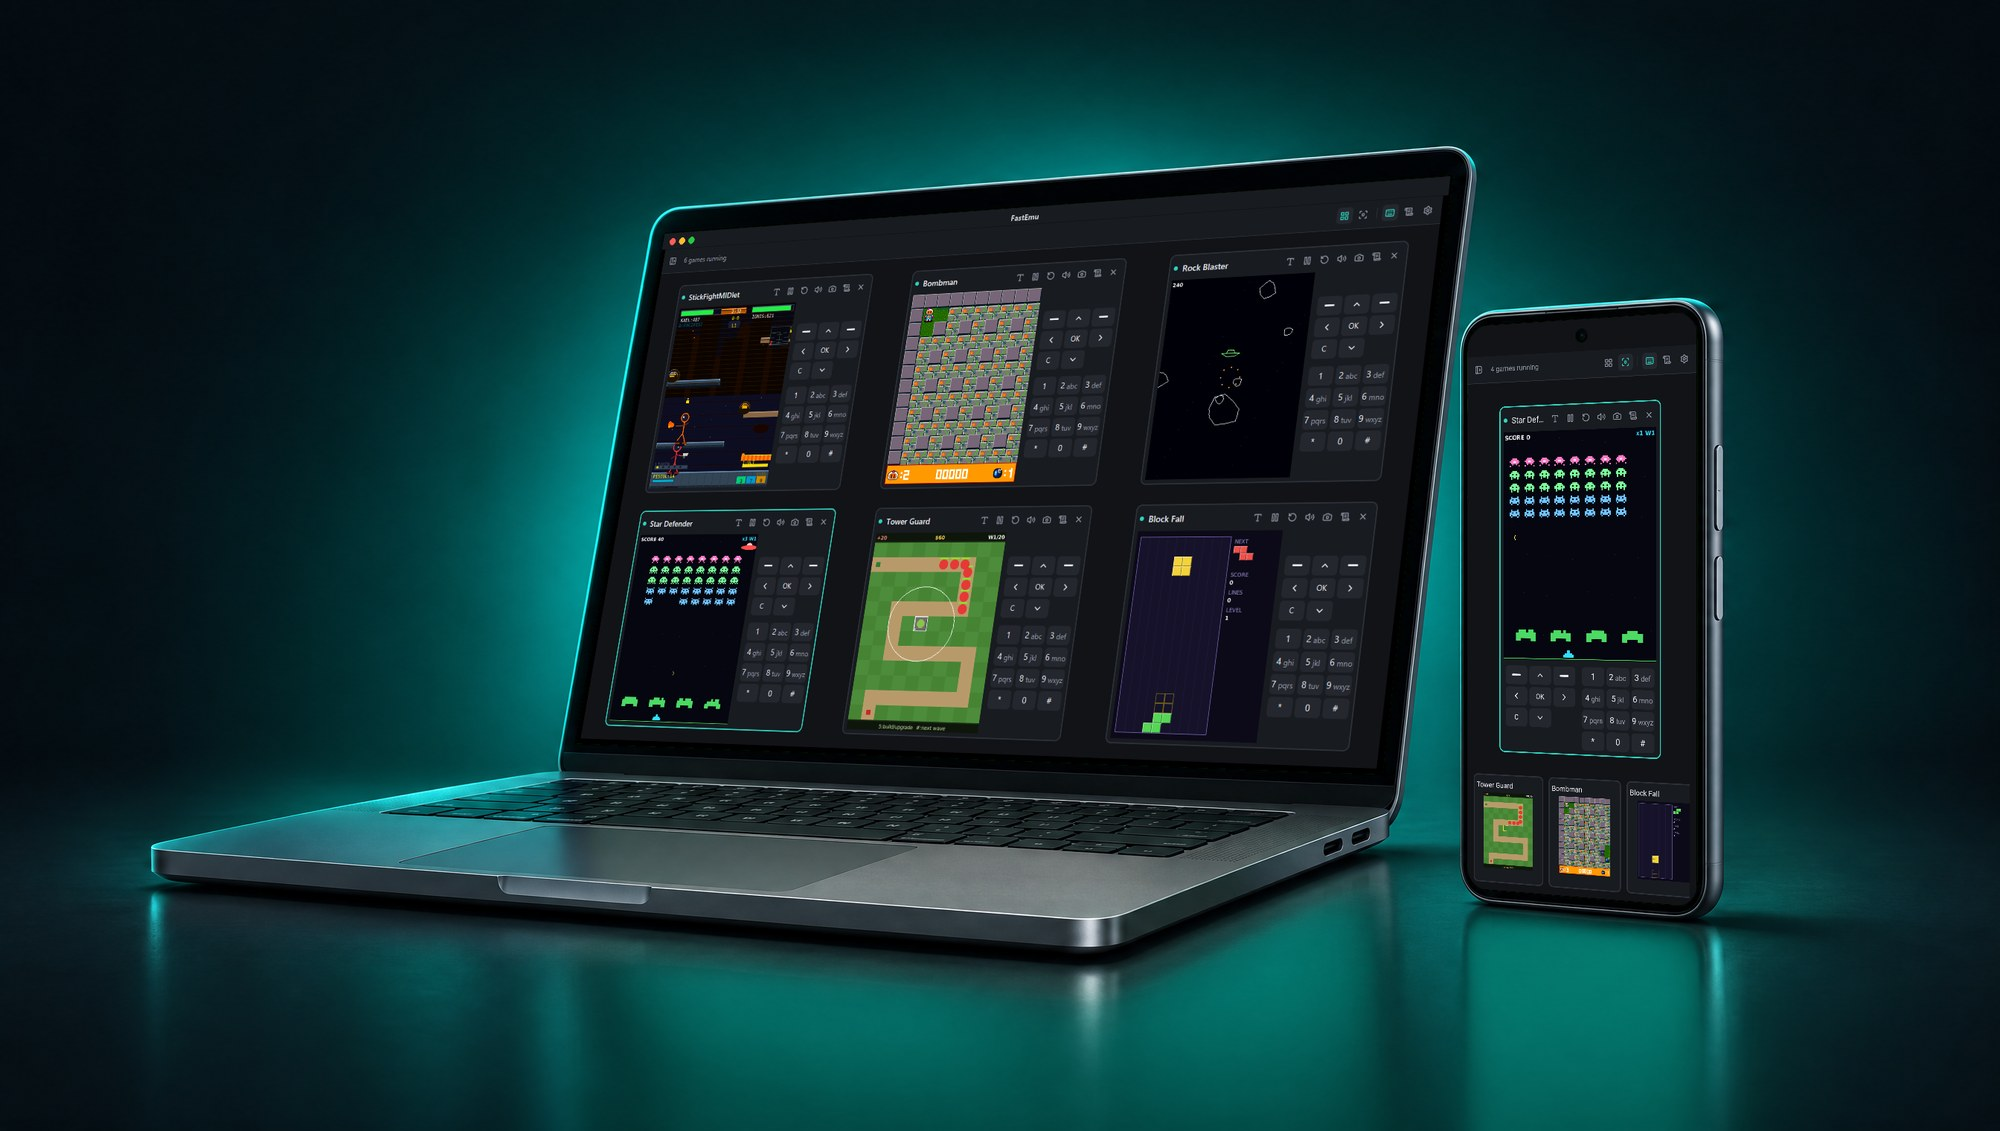
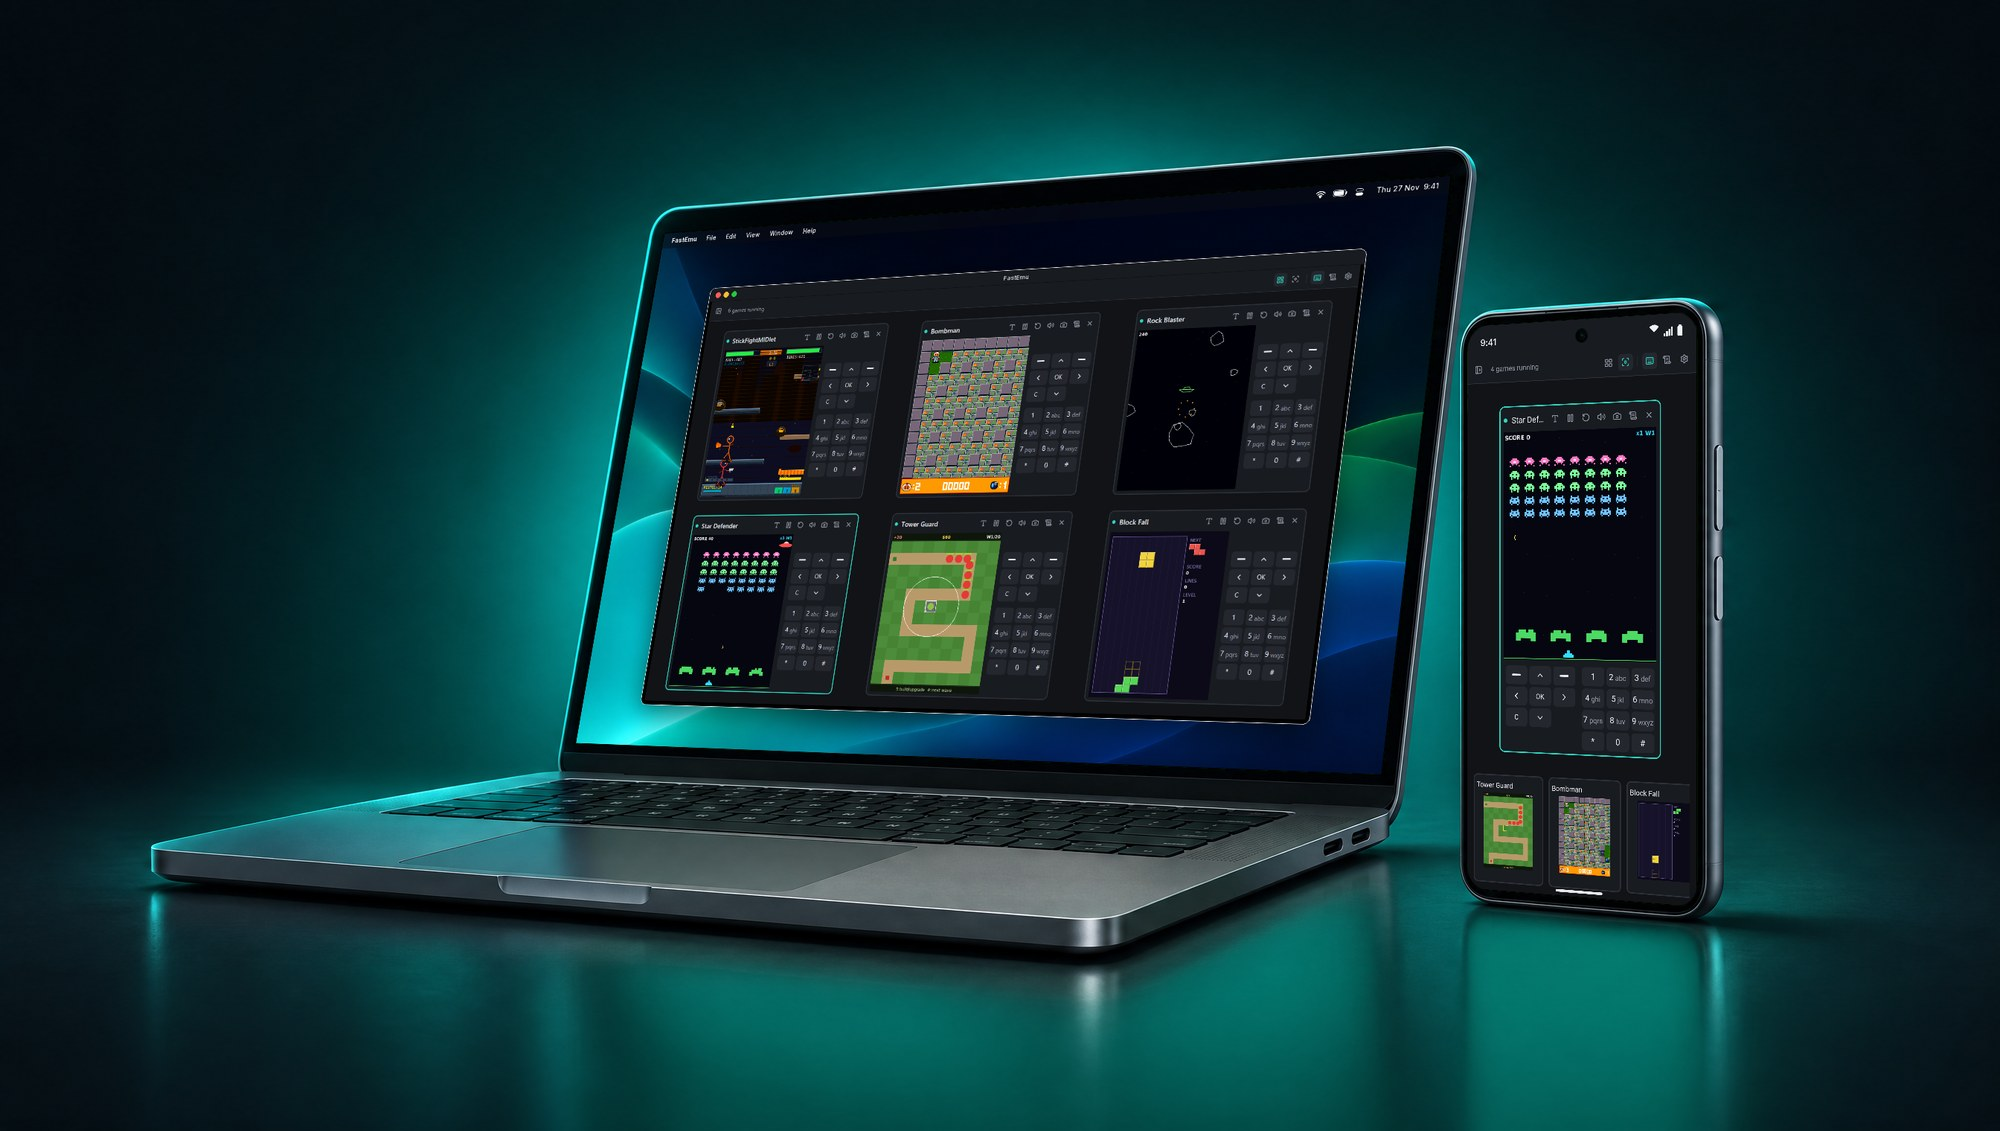
docs(readme): show the window on a macOS desktop and the phone's status bar (#82)

Changed region(s): [[0.279, 0.1547, 0.713, 0.6808]]

diff --git a/README.id.md b/README.id.md
@@ -18,10 +18,10 @@
 
 ---
 
-![FastEmu di laptop dan ponsel Android: enam game J2ME di jendela desktop, dan Star Defender di ponsel dengan Tower Guard, BombMan, dan Block Fall di bawahnya](docs/images/hero.jpg)
+![FastEmu di laptop dan ponsel Android: enam game J2ME di jendela pada desktop macOS, dan Star Defender di ponsel dengan Tower Guard, BombMan, dan Block Fall di bawahnya](docs/images/hero.jpg)
 
-<sub>Tangkapan layar FastEmu 0.1.0, dipasang di layar laptop dan ponsel
-hasil render.</sub>
+<sub>Jendela FastEmu 0.1.0 dan aplikasi Android-nya di laptop dan ponsel
+hasil render. Desktop macOS di sekitar jendela adalah mock-up.</sub>
 
 ![Jendela FastEmu memainkan enam game sekaligus: pertarungan manusia lidi, labirin pengebom, asteroid, barisan penyerbu luar angkasa, peta tower defense, dan balok yang berjatuhan](docs/images/demo.webp)
 
@@ -193,8 +193,8 @@ oleh Dash Animation V2,
 [BombMan](https://github.com/yaricom/bombman-RL-AI-J2ME) oleh Iaroslav
 Omelianenko, serta Rock Blaster, Star Defender, Tower Guard, dan Block
 Fall dari [J2ME 100 Games](https://github.com/agneay/j2me-100-games) oleh
-Agneay B Nair dan kontributor J2ME Game Archive. Laptop dan ponsel di
-sekitar tangkapan layar dirender dengan GPT Image 2.6 di Higgsfield.
+Agneay B Nair dan kontributor J2ME Game Archive. Laptop, ponsel, dan
+wallpaper desktop dirender dengan GPT Image 2.6 di Higgsfield.
 
 Crate Rust, font, dan frame game yang dipakai FastEmu, beserta
 lisensinya, tercantum di [THIRD_PARTY_NOTICES.md](THIRD_PARTY_NOTICES.md).

diff --git a/README.md b/README.md
@@ -18,10 +18,10 @@
 
 ---
 
-![FastEmu on a laptop and an Android phone: six J2ME games in the desktop window, and Star Defender on the phone with Tower Guard, BombMan and Block Fall below it](docs/images/hero.jpg)
+![FastEmu on a laptop and an Android phone: six J2ME games in the window on a macOS desktop, and Star Defender on the phone with Tower Guard, BombMan and Block Fall below it](docs/images/hero.jpg)
 
-<sub>Screenshots of FastEmu 0.1.0, placed on the screens of a rendered
-laptop and phone.</sub>
+<sub>The FastEmu 0.1.0 window and Android app on a rendered laptop and
+phone. The macOS desktop around the window is a mock-up.</sub>
 
 ![The FastEmu window playing six games at once: a stick figure fight, a bomber maze, asteroids, rows of space invaders, a tower defence map and falling blocks](docs/images/demo.webp)
 
@@ -188,8 +188,8 @@ Dash Animation V2,
 [BombMan](https://github.com/yaricom/bombman-RL-AI-J2ME) by Iaroslav
 Omelianenko, and Rock Blaster, Star Defender, Tower Guard and Block Fall
 from [J2ME 100 Games](https://github.com/agneay/j2me-100-games) by Agneay
-B Nair and the J2ME Game Archive contributors. The laptop and phone
-around the screenshots were rendered with GPT Image 2.6 on Higgsfield.
+B Nair and the J2ME Game Archive contributors. The laptop, the phone and
+the desktop wallpaper were rendered with GPT Image 2.6 on Higgsfield.
 
 The Rust crates, fonts and game frames FastEmu uses, with their licenses,
 are listed in [THIRD_PARTY_NOTICES.md](THIRD_PARTY_NOTICES.md). The people
